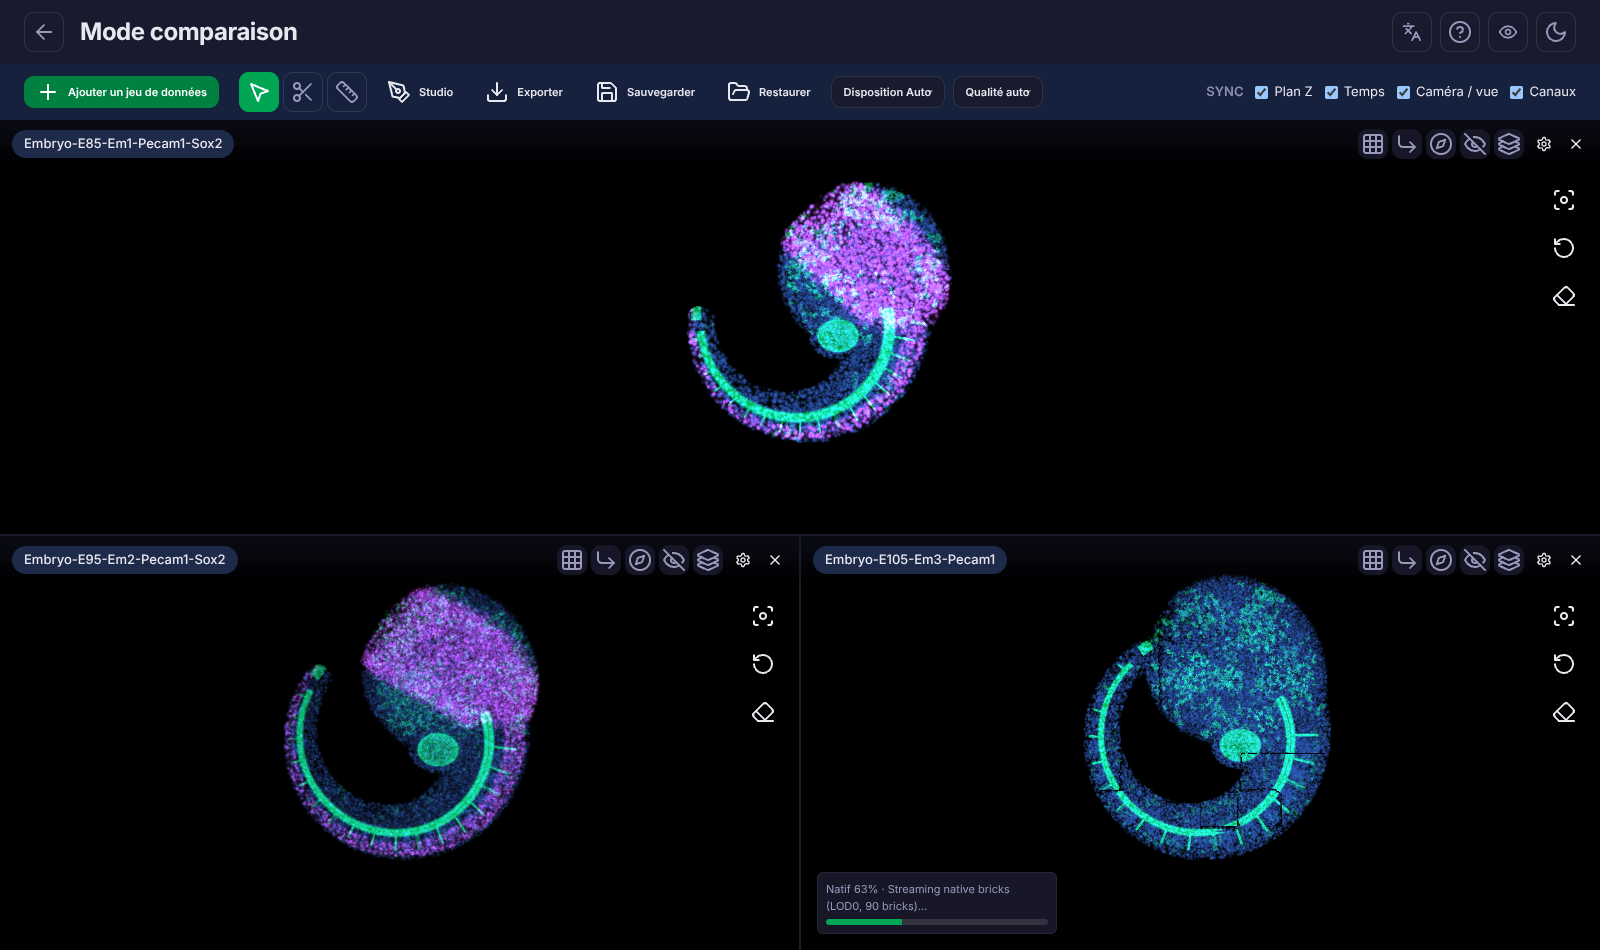
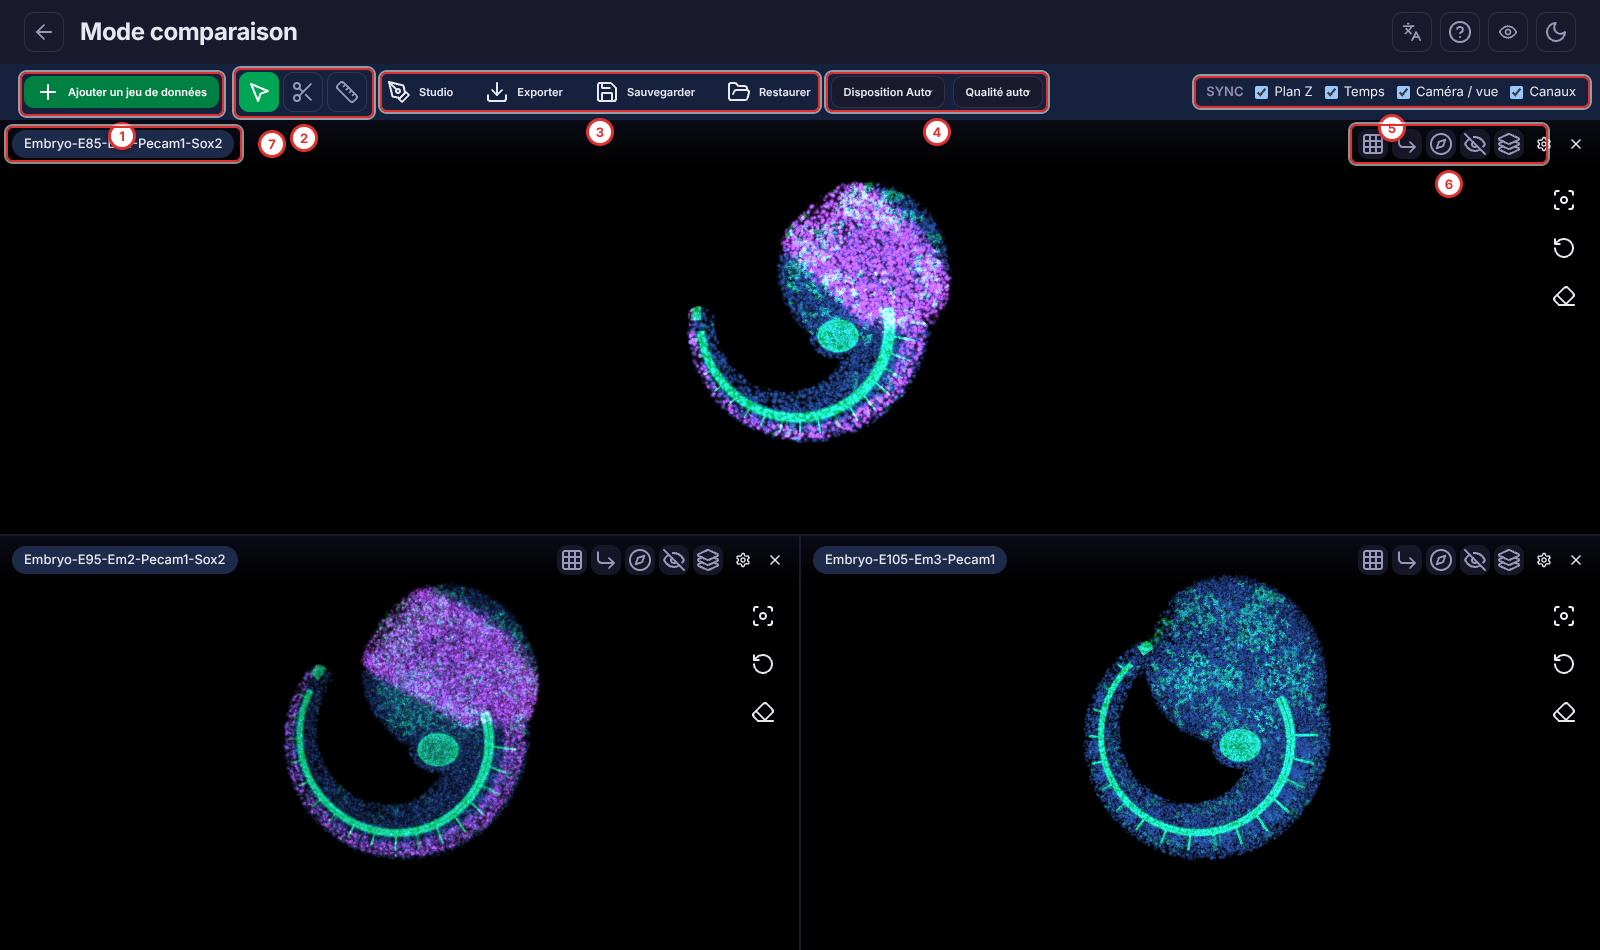
docs: avancement des chapitres (travail en cours)
Claude-Session: https://claude.ai/code/session_01Q2FReJm5x9t5P9AVx9VN6R

diff --git a/DOCS/documentation/complete/03-pages.md b/DOCS/documentation/complete/03-pages.md
@@ -16,7 +16,7 @@ Toutes les pages publiques partagent la même barre du haut : le logo, les quatr
 Les captures de ce document sont en français et en thème sombre. Le nom du site (« IRIBHM — ULB »), les couleurs et même les textes de l'accueil sont ceux de l'instance photographiée : une autre institution peut les avoir changés (chapitre 13).
 :::
 
-## 3.2 L'Accueil
+## 3.2 L'Accueil {.page}
 
 C'est la vitrine : un message d'accueil, quelques chiffres et trois cartes, une par type de données.
 
@@ -34,7 +34,7 @@ C'est la vitrine : un message d'accueil, quelques chiffres et trois cartes, une 
 
 En dessous, la section [Jeux de données en vedette]{.ui} met en avant trois jeux choisis automatiquement (le suivi le plus riche, le volume le plus profond…). L'administrateur peut remplacer toute l'accueil par une page de son cru.
 
-## 3.3 L'Explorateur
+## 3.3 L'Explorateur {.page}
 
 L'Explorateur liste les jeux publiés. Les jeux **masqués** n'y figurent pas.
 
@@ -60,7 +60,7 @@ Sur chaque fiche, trois actions :
 Les pastilles de la fiche en disent long : **Web** (affichable), **Brut** (fichier d'origine à télécharger), **Suivi** (cellules suivies), **Lié** (d'autres jeux sont rattachés, par exemple une photographie du même embryon).
 :::
 
-## 3.4 Le viewer 3D
+## 3.4 Le viewer 3D {.page}
 
 C'est le cœur de la plateforme. Ouvrez un jeu 3D : le volume apparaît d'abord flou puis s'affine.
 
@@ -97,7 +97,7 @@ Les boutons de la barre dépendent des **plugins installés** sur votre instance
 **Partager exactement ce que vous voyez.** Après quelques secondes, l'adresse du navigateur change et se termine par `#state=…`. Elle contient la caméra, les canaux, l'outil actif et vos mesures. Copiez-la : la personne qui l'ouvre se voit proposer [Ouvrir la vue enregistrée]{.ui}.
 :::
 
-## 3.5 Le viewer Live : la ligne de temps
+## 3.5 Le viewer Live : la ligne de temps {.page}
 
 Un jeu Live s'ouvre dans la même page. Deux choses s'ajoutent : la **ligne de temps** en bas, et, s'il a été suivi, la couche [Points de suivi]{.ui} dans le panneau des canaux.
 
@@ -117,7 +117,7 @@ Un jeu Live s'ouvre dans la même page. Deux choses s'ajoutent : la **ligne de t
 Sur ce petit jeu, la lecture est instantanée. Sur un vrai time-lapse, la lecture **attend** que l'instant demandé soit chargé : vous voyez des images terminées, à la vitesse où elles arrivent (chapitre 10).
 :::
 
-## 3.6 La page 2D
+## 3.6 La page 2D {.page}
 
 Une photographie de stéréomicroscope, calibrée en micromètres. Pas de canaux ni de 3D : on déplace, on zoome, on mesure.
 
@@ -137,11 +137,34 @@ Une photographie de stéréomicroscope, calibrée en micromètres. Pas de canaux
 - [Parcourir la collection]{.ui} ouvre une planche-contact de toutes les photographies ; ← et → passent à la suivante.
 - La page affiche d'abord un aperçu léger, puis la résolution native dès qu'elle est prête.
 
-## 3.7 Comparer
+## 3.7 Comparer {.page}
 
-COMPARE_PLACEHOLDER
+Jusqu'à **quatre panneaux** côte à côte. Chaque panneau est un **vrai viewer** (ou une vraie page 2D) intégré : tout ce que vous savez faire dans le viewer, vous le faites ici, et on peut mélanger volumes et photographies.
 
-## 3.8 À propos et Mentions légales
+![Comparer trois embryons (E8.5, E9.5, E10.5 : jeu de démonstration).](img/ch03/comparer.png){.shot width=100%}
+
+::: legend
+| n | ce que c'est |
+|--|----------------------|
+| 1 | [Ajouter un jeu de données]{.ui} : ouvre une fenêtre de choix avec recherche et filtres par type. |
+| 2 | Les outils communs (Naviguer, Couper, Mesurer…) : un clic s'applique à tous les panneaux. |
+| 3 | [Studio]{.ui} (une figure composée de tous les panneaux), [Exporter]{.ui}, [Sauvegarder]{.ui} et [Restaurer]{.ui} l'espace de travail. |
+| 4 | [Disposition Auto]{.ui} (colonnes, lignes, grille) et [Qualité auto]{.ui}. |
+| 5 | **SYNC** : ce qui est synchronisé entre panneaux, [Plan Z]{.ui}, [Temps]{.ui}, [Caméra / vue]{.ui}, [Canaux]{.ui}. Tout est coché par défaut. |
+| 6 | Les boutons propres à un panneau (grille, axes, orientation, volume, Z-stack), son réglage et sa fermeture. |
+| 7 | Le nom du jeu du panneau. |
+:::
+
+::: example
+**Deux embryons, une seule caméra.** Avec [Caméra / vue]{.ui} coché, tourner un embryon fait tourner les autres. Même si deux jeux ont été calibrés différemment, ils restent alignés sur l'anatomie. Pour des time-lapses de longueurs différentes, c'est la **fraction** du temps écoulé qui est synchronisée (le milieu d'un film de 100 images correspond au milieu d'un film de 10).
+:::
+
+- **Qualité auto** : les panneaux s'ouvrent à 512, puis montent un par un (jusqu'à 1024 pour deux volumes, 512 au-delà) pour tenir dans une mémoire graphique commune.
+- Un seul volume à plusieurs canaux ? Le bouton [Décomposer]{.ui} le clone en un panneau par canal.
+- L'adresse de la page (`#state=…`) retient les panneaux et leur disposition : copiez-la pour partager la comparaison.
+
+
+## 3.8 À propos et Mentions légales {.page}
 
 **À propos** présente le projet. Son contenu par défaut est une page modifiable par l'administrateur (éditeur de pages, chapitre 13). **Mentions légales** affiche le texte juridique saisi dans l'onglet [Mentions légales]{.ui} ; le lien du pied de page n'apparaît que s'il est activé.
 
